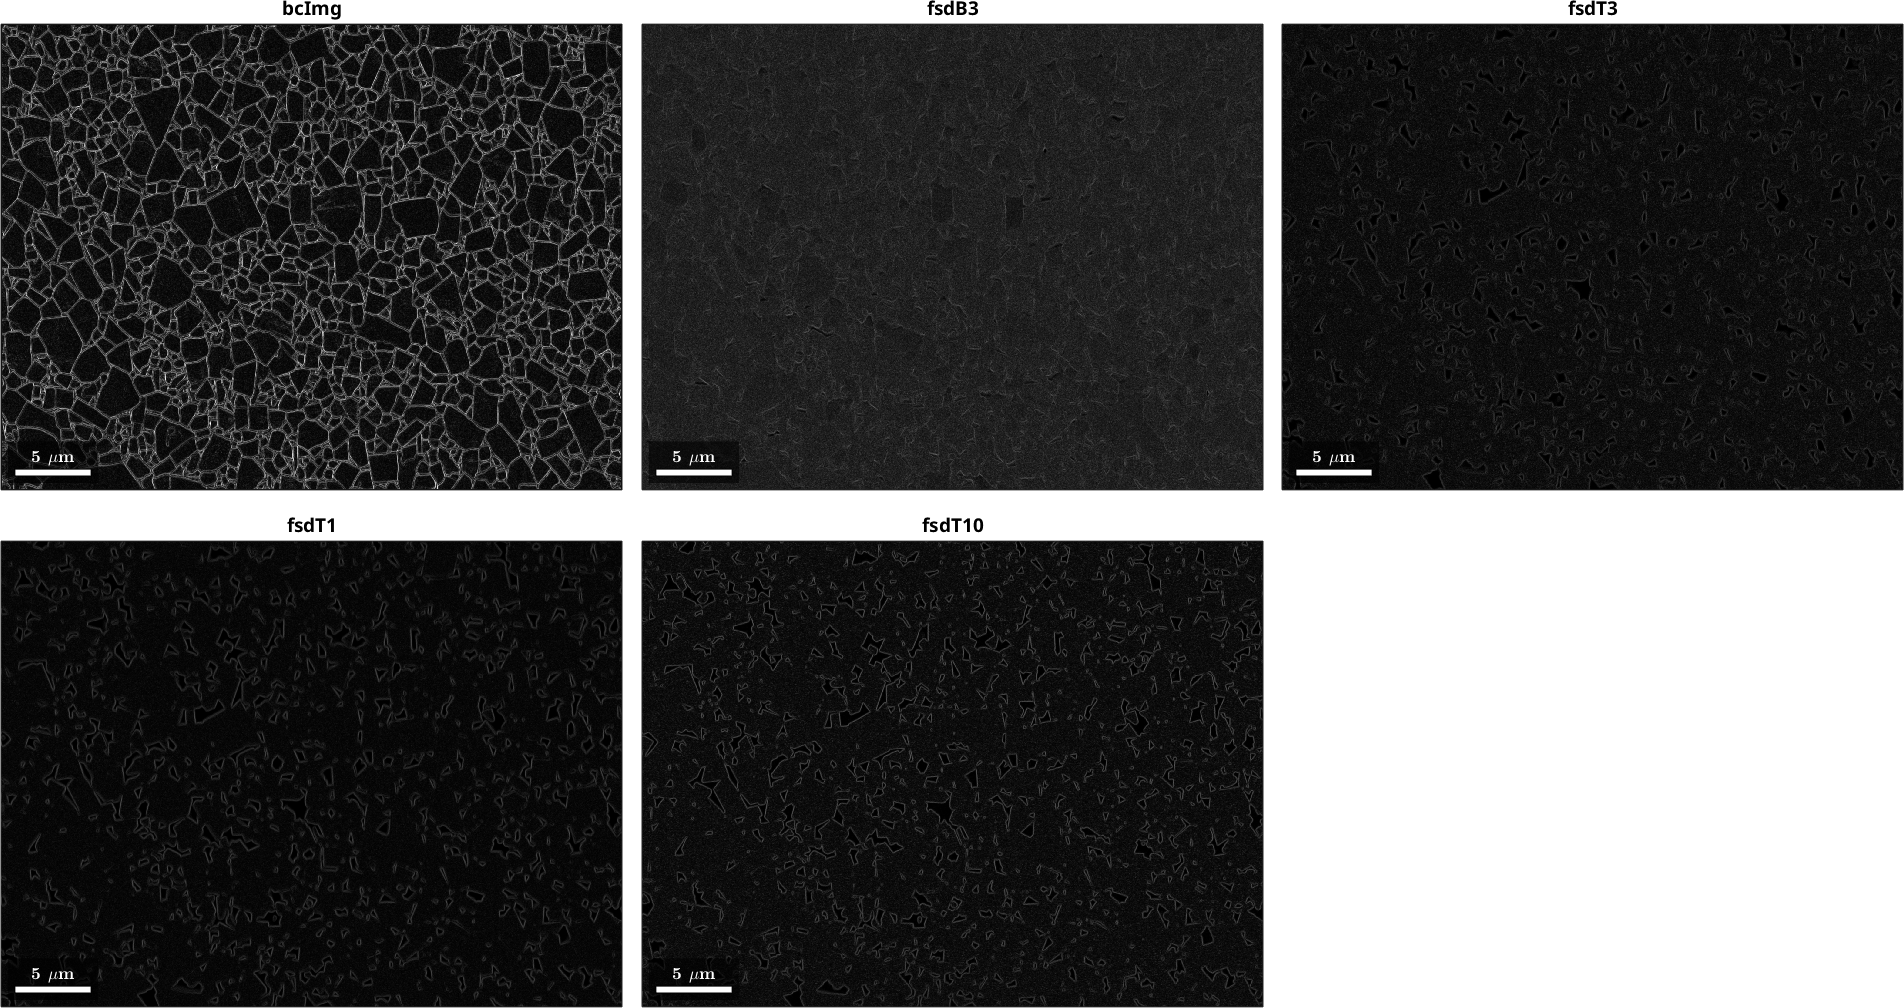
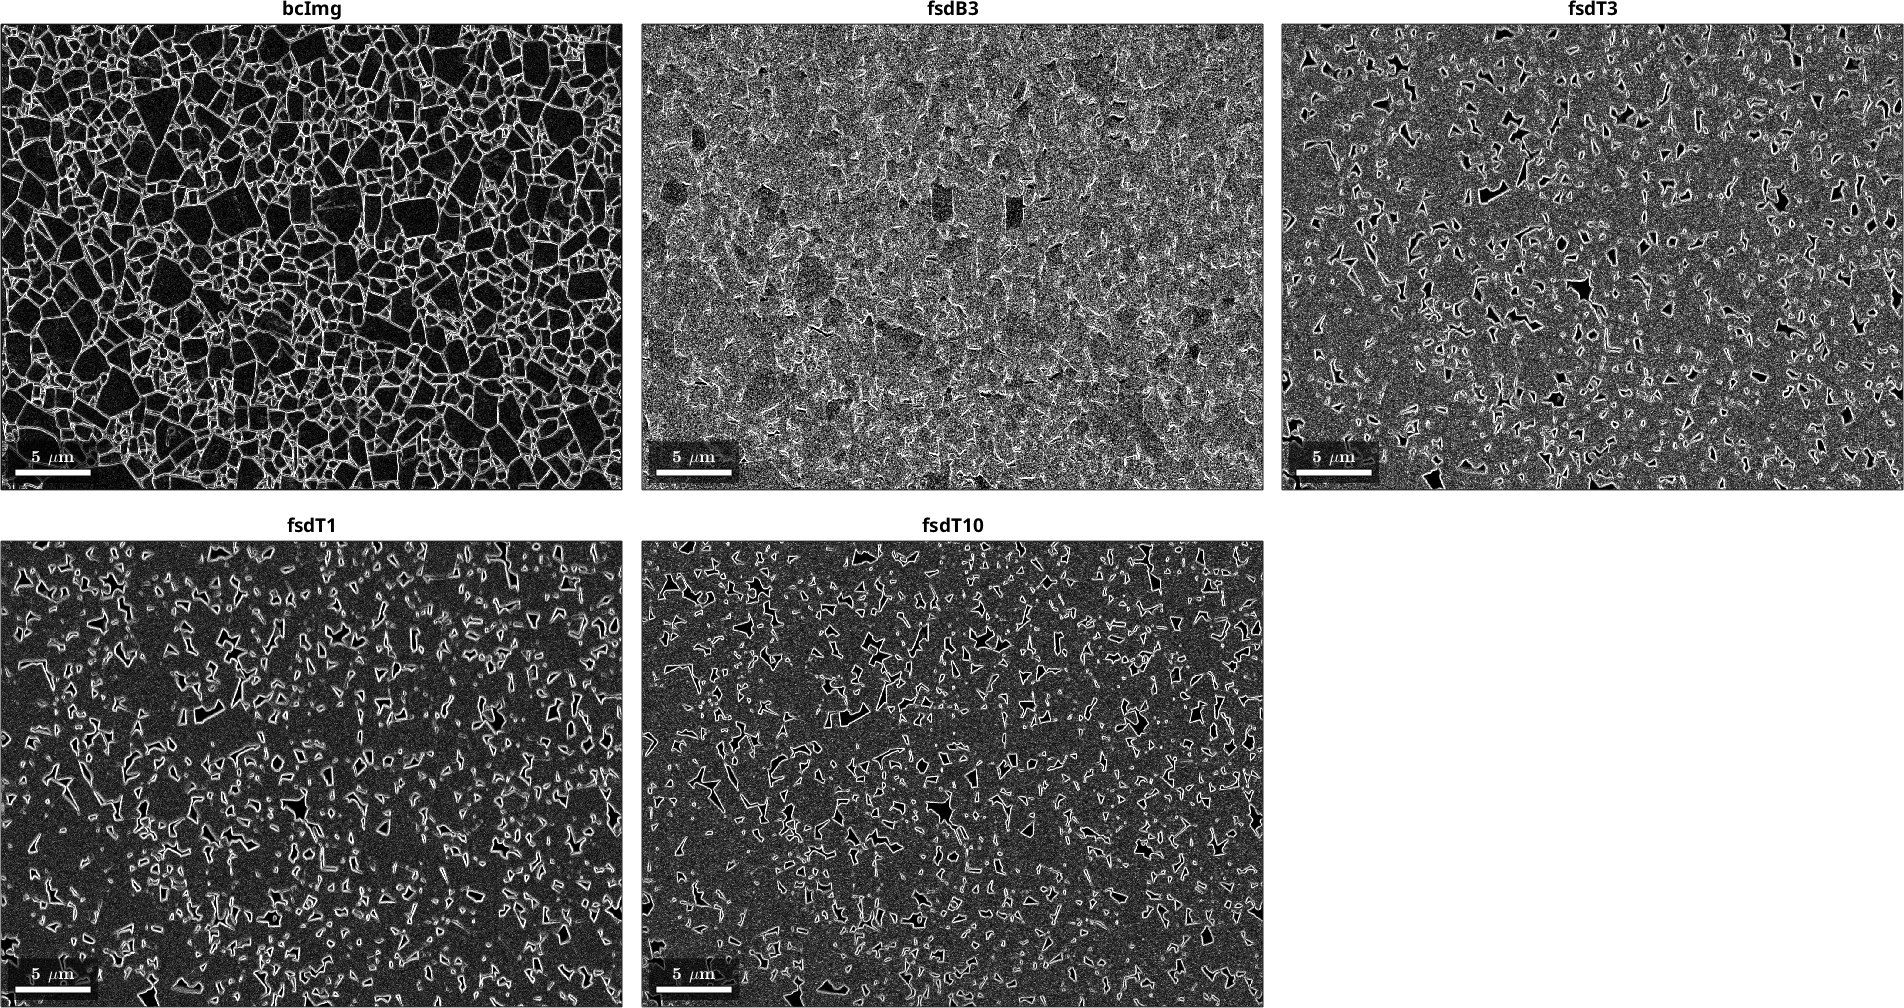
docu

diff --git a/pages/examples_matlab/example_WCCoFrames_2.html b/pages/examples_matlab/example_WCCoFrames_2.html
@@ -78,8 +78,10 @@ imgList = [mapImage(ebsdRot.bc, ebsdRot,           'name','bcImg'), ...
 <p>A light box filter first &mdash; cross-correlation dislikes noise &mdash; and one common range, since the levels off different detectors mean nothing to each other. Both are methods of <code class="language-plaintext highlighter-rouge">mapImage</code> and both take the whole list at once. Neither needs the Image Processing Toolbox.</p>
 {% highlight matlab %}
 imgList(2:end) = rescale(imboxfilt(imgList(2:end),3));
-
-T = [spatialTransformComposite(spatialTransformShift,spatialTransformDrift), ...
+{% endhighlight %}
+<p>Four hops, the first of them a two-stage model. That is <code class="language-plaintext highlighter-rouge">+</code> and not <code class="language-plaintext highlighter-rouge">*</code>: <code class="language-plaintext highlighter-rouge">+</code> reads left to right in the order the stages are applied and keeps both, where an unfitted prototype reports itself as the identity and <code class="language-plaintext highlighter-rouge">*</code> would absorb one away.</p>
+{% highlight matlab %}
+T = [spatialTransformShift + spatialTransformDrift, ...
      spatialTransformId, ...
      spatialTransformShift, ...
      spatialTransformTilt];
@@ -116,7 +118,7 @@ imgList = mapImage (x↑→y)
  4      192 x 256  0.08 um   x↑→y  row←col↓   fsdT1                    -
  5      192 x 256  0.08 um   x↑→y  row←col↓  fsdT10                    -
 {% endhighlight %}
-<h2 id="8">Run the workflow</h2>
+<h2 id="9">Run the workflow</h2>
 <p>From here nothing is different. The sequence is in one frame, so the rest is the ordinary workflow &mdash; see <a href="example_WCCoSmall.html">the short page</a> for what each step does.</p>
 {% highlight matlab %}
 job = trueEbsd2(imgList,T);
@@ -168,37 +170,38 @@ ans = trueEbsd2 (pixel size matched)
  common grid: 192 x 256 at 0.08 µm
  
 
- measured settings, override with setOptions
-   edgeWidth  per map  4 4 5 5 5 px
-   roiSize    per hop  32 64 64 64 px   from shifts 5.0 1.2 3.2 3.5 px, features 4 7 5 5 px
+ ◆ measured settings, override with setOptions
+   ▸ edgeWidth  per map  4 4 5 5 5 px
+   ▸ roiSize    per hop  32 64 64 64 px   ← shifts 5.0 1.2 3.2 3.5 px, features 4 7 5 5 px
 
- distortion across 5 maps, 4 hops
+ ◆ distortion across 5 maps, 4 hops
 
-    distortion   stage            ROI     shift  residual
-  bcImg
-  | shift-drift  shift          32 px   4.19 px
-  |              drift          32 px   3.72 px
-  |              residual                         3.36 px
-  | residual over 2 px, retrying with a 64 px ROI
-  | shift-drift  shift          64 px   3.64 px
-  |              drift          64 px   2.04 px
-  |              residual                         1.53 px
-  v
-  fsdB3
-  | identity     -                  -   0.00 px
-  |              difference                       1.20 px
-  v
-  fsdT3
-  | shift        shift          64 px   3.18 px
-  |              residual                         0.33 px
-  v
-  fsdT1
-  | tilt         projective     64 px   3.63 px
-  |              poly11         64 px   0.29 px
-  |              poly22         64 px   0.29 px
-  |              residual                         0.28 px
-  v
-  fsdT10
+    distortion   stage              ROI     shift  residual
+    ──────────── ───────────── ──────── ───────── ─────────
+  ● bcImg
+  │ shift-drift  shift            32 px   4.19 px
+  │              drift            32 px   3.72 px
+  │              ↳ residual                         3.36 px
+  │ ↻ residual over 2 px, retrying with a 64 px ROI
+  │ shift-drift  shift            64 px   3.64 px
+  │              drift            64 px   2.04 px
+  │              ↳ residual                         1.53 px
+  ▼
+  ● fsdB3
+  │ identity     ·                    ·   0.00 px
+  │              ↳ difference                       1.20 px
+  ▼
+  ● fsdT3
+  │ shift        shift            64 px   3.18 px
+  │              ↳ residual                         0.33 px
+  ▼
+  ● fsdT1
+  │ tilt         projective       64 px   3.63 px
+  │              poly11           64 px   0.29 px
+  │              poly22           64 px   0.29 px
+  │              ↳ residual                         0.28 px
+  ▼
+  ● fsdT10
 
  
 ans = trueEbsd2 (shifts calculated)
@@ -234,7 +237,7 @@ ans = trueEbsd2 (undistorted)
 <center>
 {% include inline_image.html file="example_WCCoFrames_2_03.png" %}
 </center>
-<h2 id="10">Check the result</h2>
+<h2 id="11">Check the result</h2>
 <p>The aligned images are properties of the map, exactly as on the short page.</p>
 <p>The map and the images come out the same way round and the same shape. That is the point of having said which frame everything is in: <code class="language-plaintext highlighter-rouge">gridify</code> takes a layout, so the map is rebuilt in the frame you asked for rather than in MTEX's standard one, and <code class="language-plaintext highlighter-rouge">ebsd.bc</code> can then be put beside an aligned image pixel for pixel with nothing in between.</p>
 {% highlight matlab %}
@@ -275,7 +278,7 @@ fprintf('corr(ebsd.bc, aligned image) = %.4f\n', r(1,2));
 {% highlight plaintext %}
 corr(ebsd.bc, aligned image) = 0.9305
 {% endhighlight %}
-<h2 id="12">Finish</h2>
+<h2 id="13">Finish</h2>
 <p>Everything this page added to <a href="example_WCCoSmall.html">the short workflow</a> was two lines: turning the map's frame until the plots agreed, and one call to <code class="language-plaintext highlighter-rouge">transformReferenceFrame</code> to say so. The sequence, the distortions, the box settings and the result are identical.</p>
 <p>If your map and images were collected the same way up you need none of it. Reach for this when the plots disagree, or when building the job stops with <code class="language-plaintext highlighter-rouge">trueEbsd:frameMismatch</code> &mdash; which is TrueEBSD telling you it has spotted the problem rather than guessing past it.</p>
 </div>

diff --git a/pages/examples_matlab/example_WCCo_2.html b/pages/examples_matlab/example_WCCo_2.html
@@ -127,10 +127,9 @@ imgList = mapImage (y↓→x)
 imgList(2:end) = rescale(imboxfilt(imgList(2:end),3));
 {% endhighlight %}
 <p>The distortions are objects, one per <b>hop</b>, not names on the images. Five maps means four hops, and the reference has no entry of its own &mdash; where nothing separates a pair that is <code class="language-plaintext highlighter-rouge">spatialTransformId</code>, not a <code class="language-plaintext highlighter-rouge">'true'</code> label.</p>
-<p>
-<code class="language-plaintext highlighter-rouge">spatialTransformComposite</code> and not <code class="language-plaintext highlighter-rouge">*</code>: an unfitted prototype has zero coefficients, so it reports itself as the identity and <code class="language-plaintext highlighter-rouge">*</code> would absorb it.</p>
+<p>A multi-stage hop is <code class="language-plaintext highlighter-rouge">+</code> and not <code class="language-plaintext highlighter-rouge">*</code>: <code class="language-plaintext highlighter-rouge">+</code> reads left to right in the order the stages are applied and keeps both, where an unfitted prototype has zero coefficients, reports itself as the identity, and <code class="language-plaintext highlighter-rouge">*</code> would absorb it.</p>
 {% highlight matlab %}
-T = [spatialTransformComposite(spatialTransformShift,spatialTransformDrift), ...
+T = [spatialTransformShift + spatialTransformDrift, ...
      spatialTransformId, ...
      spatialTransformShift, ...
      spatialTransformTilt]
@@ -304,45 +303,46 @@ job.calcDistortion('fitErr')
 {% endhighlight %}
 
 {% highlight plaintext %}
-measured settings, override with setOptions
-   edgeWidth  per map  6 7 7 7 7 px
-   roiSize    per hop  - 128 - 128 px   from shifts - 2.4 - 14.3 px, features - 13 - 13 px
+◆ measured settings, override with setOptions
+   ▸ edgeWidth  per map  6 7 7 7 7 px
+   ▸ roiSize    per hop  · 128 · 128 px   ← shifts · 2.4 · 14.3 px, features · 13 · 13 px
 
- distortion across 5 maps, 4 hops
+ ◆ distortion across 5 maps, 4 hops
 
-    distortion   stage            ROI     shift  residual
-  bcImg
-  | shift-drift  shift          64 px  12.13 px
-  |              drift          32 px   6.40 px
-  |              residual                         5.71 px
-  | residual over 2 px, retrying with a 128 px ROI
-  | shift-drift  shift         128 px  14.41 px
-  |              drift          64 px   6.40 px
-  |              residual                         4.41 px
-  | residual over 2 px, retrying with a 256 px ROI
-  | shift-drift  shift         256 px  14.04 px
-  |              drift         128 px   5.54 px
-  |              residual                         2.39 px
-  | residual over 2 px, retrying with a 512 px ROI
-  | shift-drift  shift         512 px  12.13 px
-  |              drift         256 px   5.09 px
-  |              residual                         1.30 px
-  v
-  fsdB3
-  | identity     -                  -   0.00 px
-  |              difference                       3.70 px
-  v
-  fsdT3
-  | shift        shift         128 px  12.63 px
-  |              residual                         0.97 px
-  v
-  fsdT1
-  | tilt         projective    128 px  14.16 px
-  |              poly11        128 px   0.86 px
-  |              poly22        128 px   0.80 px
-  |              residual                         0.79 px
-  v
-  fsdT10
+    distortion   stage              ROI     shift  residual
+    ──────────── ───────────── ──────── ───────── ─────────
+  ● bcImg
+  │ shift-drift  shift            64 px  12.13 px
+  │              drift            32 px   6.40 px
+  │              ↳ residual                         5.71 px
+  │ ↻ residual over 2 px, retrying with a 128 px ROI
+  │ shift-drift  shift           128 px  14.41 px
+  │              drift            64 px   6.40 px
+  │              ↳ residual                         4.41 px
+  │ ↻ residual over 2 px, retrying with a 256 px ROI
+  │ shift-drift  shift           256 px  14.04 px
+  │              drift           128 px   5.54 px
+  │              ↳ residual                         2.39 px
+  │ ↻ residual over 2 px, retrying with a 512 px ROI
+  │ shift-drift  shift           512 px  12.13 px
+  │              drift           256 px   5.09 px
+  │              ↳ residual                         1.30 px
+  ▼
+  ● fsdB3
+  │ identity     ·                    ·   0.00 px
+  │              ↳ difference                       3.70 px
+  ▼
+  ● fsdT3
+  │ shift        shift           128 px  12.63 px
+  │              ↳ residual                         0.97 px
+  ▼
+  ● fsdT1
+  │ tilt         projective      128 px  14.16 px
+  │              poly11          128 px   0.86 px
+  │              poly22          128 px   0.80 px
+  │              ↳ residual                         0.79 px
+  ▼
+  ● fsdT10
 
  
 ans = trueEbsd2 (shifts calculated)

diff --git a/pages/examples_matlab/example_WCCoSmall_2.html b/pages/examples_matlab/example_WCCoSmall_2.html
@@ -24,7 +24,7 @@ toc: false
 <div>
 <!--introduction-->
 <p>
-<b>This is the <a href="trueEbsd2.trueEbsd2.html">trueEbsd2</a> variant of <a href="example_WCCoSmall.html">the short page</a>.</b> Same data, same five maps, same four distortions and the same numbers &mdash; but built on MTEX's own <a href="mapImage.mapImage.html"><code class="language-plaintext highlighter-rouge">mapImage</code></a> and <a href="spatialTransform.spatialTransform.html"><code class="language-plaintext highlighter-rouge">spatialTransform</code></a> rather than on TrueEBSD's <code class="language-plaintext highlighter-rouge"><a href="distortedImg.distortedImg.html">distortedImg</a></code> and its distortion-name strings. See <code class="language-plaintext highlighter-rouge">MIGRATION-mapImage.md</code> in the toolbox for why, and for what still differs.</p>
+<b>This is the <a href="trueEbsd2.trueEbsd2.html">trueEbsd2</a> variant of <a href="example_WCCoSmall.html">the short page</a>.</b> Same data, same five maps, same four distortions and the same numbers &mdash; but built on MTEX's own <a href="mapImage.mapImage.html"><code class="language-plaintext highlighter-rouge">mapImage</code></a> and <a href="spatialTransform.html"><code class="language-plaintext highlighter-rouge">spatialTransform</code></a> rather than on TrueEBSD's <code class="language-plaintext highlighter-rouge"><a href="distortedImg.distortedImg.html">distortedImg</a></code> and its distortion-name strings. See <code class="language-plaintext highlighter-rouge">MIGRATION-mapImage.md</code> in the toolbox for why, and for what still differs.</p>
 <p>Authors: Vivian Tong; Stefan Olovsj&ouml;, Seco Tools AB, R&amp;D Materials and Technology, 737 82 Fagersta, Sweden. Contact: <a href="mailto:vivian.tong@extern.tu-freiberg.de">vivian.tong@extern.tu-freiberg.de</a>
 </p>
 <p>An EBSD map and an SEM image of the same area never quite line up: the beam drifts during the scan, the camera moves between acquisitions, the specimen is tilted. TrueEBSD corrects that, so every pixel of the map and every pixel of the images refer to the same point on the sample.</p>
@@ -94,9 +94,9 @@ imgList = [mapImage(ebsd.bc, ebsd,             'name','bcImg'), ...
 imgList(2:end) = rescale(imboxfilt(imgList(2:end),3));
 {% endhighlight %}
 <p>The distortions are objects, one per <b>hop</b>, not names on the images. There are five maps and so four hops, and the reference has no entry of its own &mdash; where nothing separates a pair, that is <code class="language-plaintext highlighter-rouge">spatialTransformId</code> rather than a <code class="language-plaintext highlighter-rouge">'true'</code> label.</p>
-<p>Building a multi-stage model uses <code class="language-plaintext highlighter-rouge">spatialTransformComposite</code> and not <code class="language-plaintext highlighter-rouge">*</code>. An unfitted prototype has zero coefficients, so it reports itself as the identity and <code class="language-plaintext highlighter-rouge">*</code> would absorb it away.</p>
+<p>A multi-stage model is built with <code class="language-plaintext highlighter-rouge">+</code> and not <code class="language-plaintext highlighter-rouge">*</code>. <code class="language-plaintext highlighter-rouge">+</code> reads left to right in the order the stages are applied and keeps both of them, where an unfitted prototype has zero coefficients, so it reports itself as the identity and <code class="language-plaintext highlighter-rouge">*</code> would absorb it away.</p>
 {% highlight matlab %}
-T = [spatialTransformComposite(spatialTransformShift,spatialTransformDrift), ...
+T = [spatialTransformShift + spatialTransformDrift, ...
      spatialTransformId, ...
      spatialTransformShift, ...
      spatialTransformTilt];
